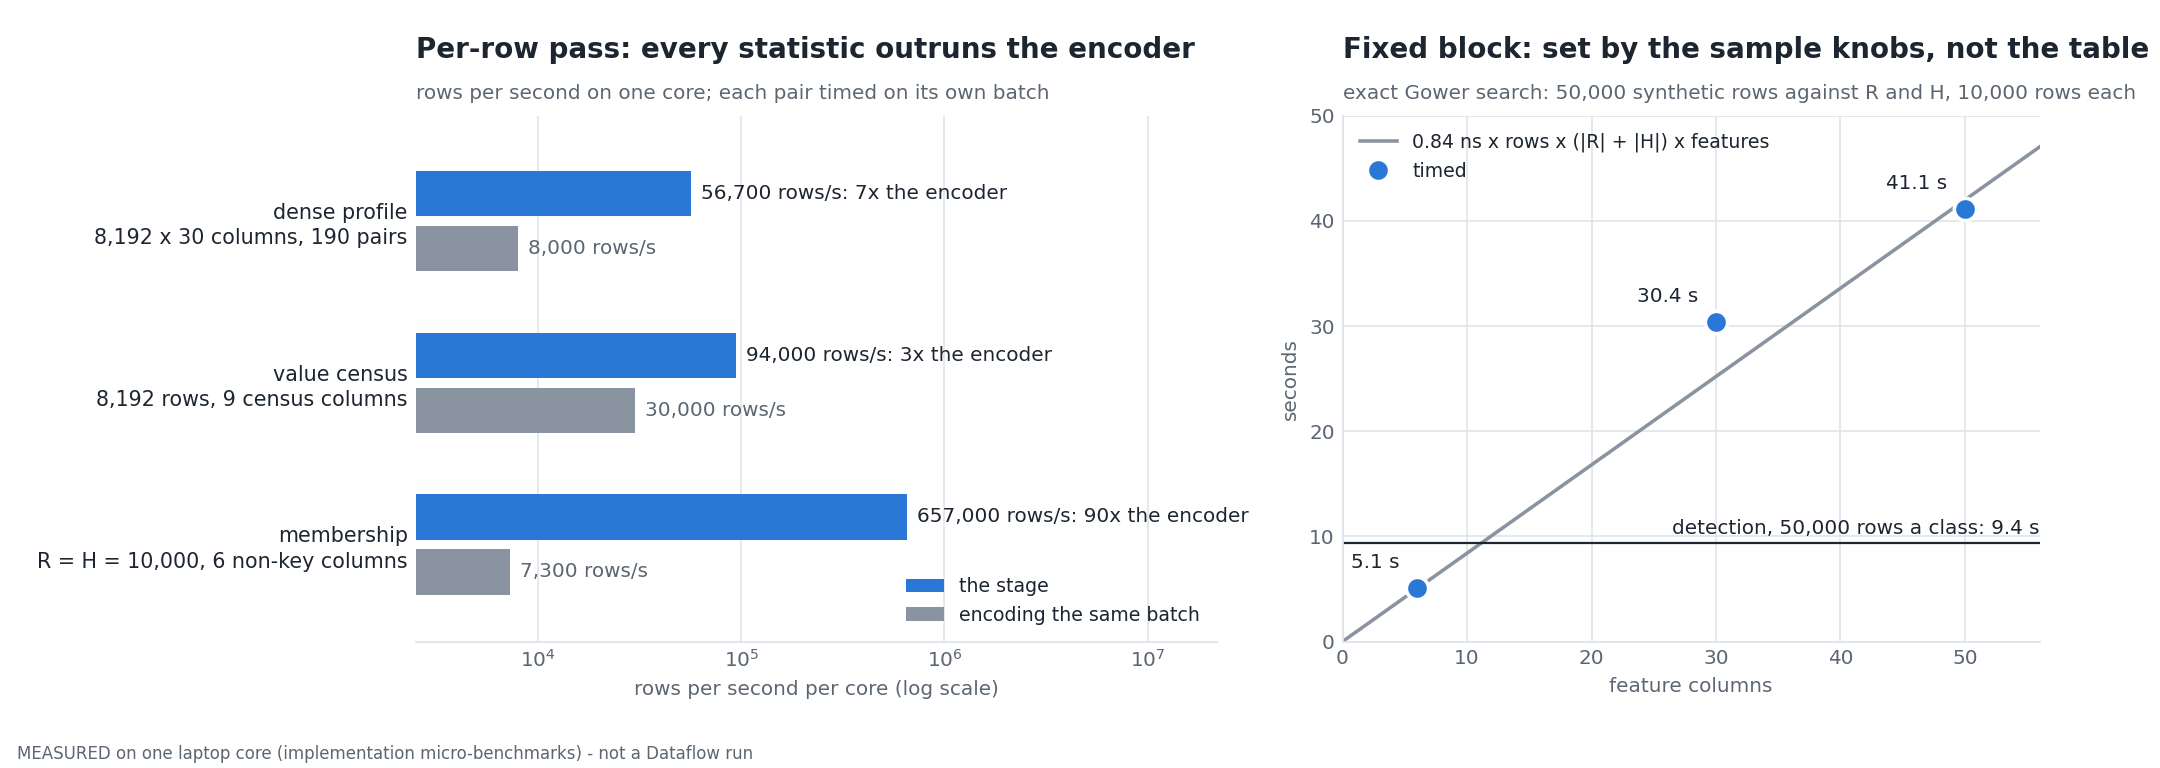
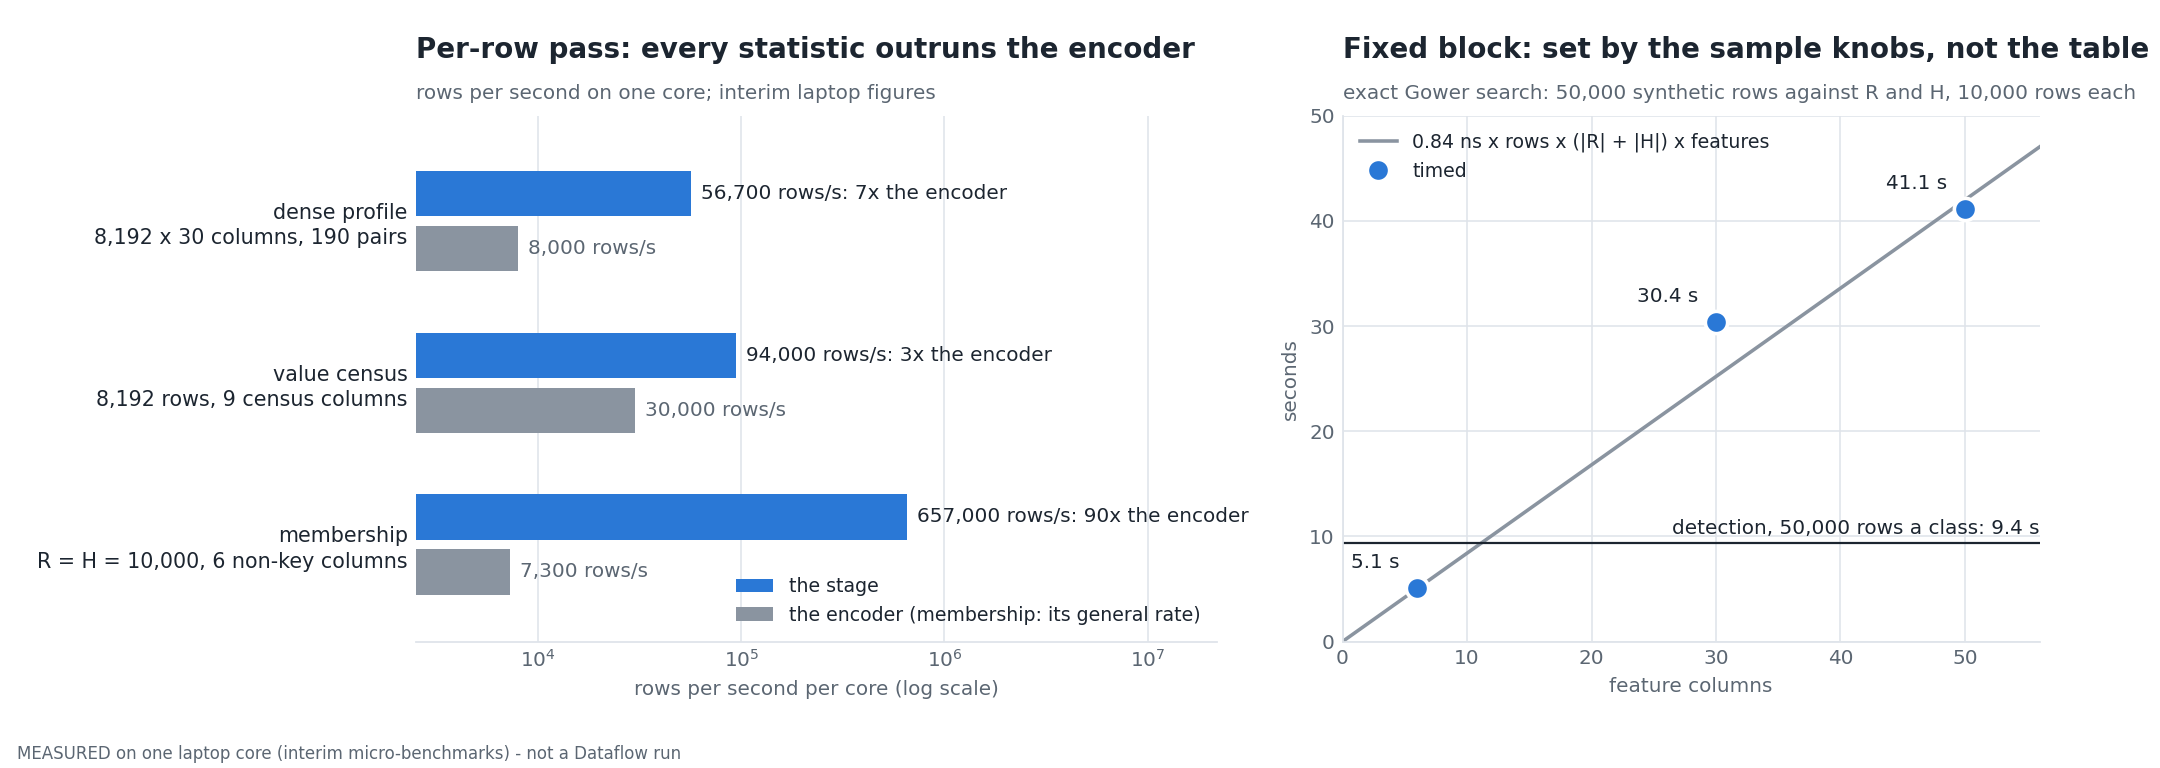
docs(evaluation): Task 30 review round 1 — scope statuses as built, interim CPU figure, catalogue check runs in CI (R105)

Changed region(s): [[0.3412, 0.75, 0.5583, 0.8125], [0.1241, 0.9688, 0.3412, 1.0], [0.3412, 0.0938, 0.4963, 0.1562]]

diff --git a/scripts/doc/make_eval_figures.py b/scripts/doc/make_eval_figures.py
@@ -233,25 +233,30 @@ RULE_ROWS, RULE_GRID, RULE_K = 2_000, 1_001, 10
 RULE_SHOWN = 28  # records drawn at each tail
 
 # --- MEASURED (typed once; laptop micro-benchmarks, not a Dataflow run) ----
-# Reported by the implementation tasks while each transform was built
+# INTERIM: laptop micro-benchmarks recorded while the package was built
 # (2026-09/10), on one Intel i5-6267U core (2.9 GHz) with single-threaded
-# numpy. They size the design; they are not evidence of a cloud run, and the
-# raw timings were not kept as a committed evidence bundle. A floor on the
-# dense pass is pinned by
-# packages/sdfb-evaluation/tests/beam/test_dense.py::test_throughput_8192_by_30_batch.
+# numpy. They size the design; they are not a committed evidence bundle and
+# not a cloud run, and the first Dataflow run is to replace them. A reader
+# can reproduce the dense-pass row with
+#   pytest packages/sdfb-evaluation/tests/beam/test_dense.py::test_throughput_8192_by_30_batch -s
+# (the other rows have no committed command).
 MEASURED_STAGES = (
-    # stage, rows/s per core, rows/s of ENCODING the same batch, the batch
+    # stage, rows/s per core, the encoder's rows/s (dense profile and census:
+    # same batch; membership: the encoder's general rate from another task's
+    # notes), the batch
     ("dense profile", 56_700, 8_000, "8,192 x 30 columns, 190 pairs"),
     ("value census", 94_000, 30_000, "8,192 rows, 9 census columns"),
     ("membership", 657_000, 7_300, "R = H = 10,000, 6 non-key columns"),
 )
 # Exact Gower nearest neighbours of 50,000 synthetic rows against R and H
 # (10,000 rows each): (feature columns, seconds). d = 6 and 30 were timed on
-# 4 busy cores, d = 50 single-threaded.
+# 4 cores at a load average of 6-10, d = 50 single-threaded.
 MEASURED_NN = ((6, 5.1), (30, 30.4), (50, 41.1))
 MEASURED_NN_QUERY, MEASURED_NN_REFERENCE = 50_000, 20_000
 MEASURED_NN_NS_PER_OP = 0.84  # ns per (query, reference, feature), d = 50
-MEASURED_DETECTION_SECONDS = 9.4  # 50,000 rows a class, 6 features, clean
+# 50,000 rows a class, 6 features, clean table with early stopping, timed at
+# the same load average of 6-10.
+MEASURED_DETECTION_SECONDS = 9.4
 
 
 # --------------------------------------------------------------------------
@@ -361,7 +366,7 @@ def _row_labels(ax, left, right=None):
 def _save(fig, name, *, kind="concept", seed=None, pad=1.6):
   """Stamp what kind of figure this is into the image, then write it."""
   if kind == "measured":
-    stamp = ("MEASURED on one laptop core (implementation micro-benchmarks)"
+    stamp = ("MEASURED on one laptop core (interim micro-benchmarks)"
              " - not a Dataflow run")
   elif seed is None:
     stamp = "CONCEPT figure: a schematic - no data, not a measured run"
@@ -1848,7 +1853,7 @@ def fig_cpu_budget():
         encode,
         height=0.28,
         color=CONTEXT,
-        label="encoding the same batch" if first else None)
+        label="the encoder (membership: its general rate)" if first else None)
     ax.text(
         rate * 1.12,
         y + 0.17,
@@ -1869,7 +1874,7 @@ def fig_cpu_budget():
   _style(ax, grid_axis="x")
   _row_labels(ax, [f"{stage}\n{batch}" for stage, _, _, batch in stages])
   _title(ax, "Per-row pass: every statistic outruns the encoder",
-         "rows per second on one core; each pair timed on its own batch")
+         "rows per second on one core; interim laptop figures")
   ax.set_xlabel("rows per second per core (log scale)", color=MUTED, fontsize=9)
   _legend(ax, loc="lower right")
 

diff --git a/docs/designs/2026-07-07-evaluation-framework-design.md b/docs/designs/2026-07-07-evaluation-framework-design.md
@@ -169,7 +169,7 @@ flowchart TB
   subgraph EVAL["packages/sdfb-evaluation: own lock, own venv"]
     CTX["⚙ context<br/>launch, scope, plan"]:::cpu
     BEAM["🔀 beam<br/>transforms, pipeline"]:::beam
-    STATS["⚙ stats, sampling<br/>pure numpy"]:::cpu
+    STATS["⚙ stats, sampling<br/>numpy, scipy"]:::cpu
     SCORE["⚙ scoring<br/>catalogue rules"]:::cpu
     CAT["📄 catalogue<br/>metrics.yaml"]:::store
     SCH["📄 schemas<br/>4 tables, 2 views"]:::store
@@ -190,7 +190,7 @@ flowchart TB
 | Module | What it owns |
 | --- | --- |
 | `context/` | Everything decided before a row is read: the launch (`launch`, `jobs`, `runs`, `gcp`), the relationship model mirror (`relationships`), the scope and the source pin (`scope`), the reference panel (`reference`), the plan and its budgets (`plan`, `budget`), planning from in-memory rows (`offline`), and the one wrapper every BigQuery call goes through (`bq`) |
-| `stats/`, `sampling/` | Pure numpy and scipy statistics and the bottom-k sampler. No Beam, no BigQuery |
+| `stats/`, `sampling/` | numpy and scipy statistics (the detection test also uses scikit-learn) and the bottom-k sampler. No Beam, no BigQuery |
 | `beam/` | The encoder, five transforms (`dense`, `census`, `membership`, `privacy`, `relational`), sources and sinks (`io`), the label key (`label_key`), assembly and the composed pipeline |
 | `scoring/` | Status, score and roll-ups, executed from the catalogue |
 | `catalogue/`, `schemas/` | The two contracts: every metric, and the four tables with their two views |
@@ -245,7 +245,7 @@ flowchart TD
 
 | Source | Answers | Lost when |
 | --- | --- | --- |
-| 1. Job labels in [`INFORMATION_SCHEMA.JOBS`][bq-jobs] | Which tables the job committed rows to, when, and how many. Beam labels every load and copy job it submits with the Dataflow job id | The evaluator lacks `roles/bigquery.resourceViewer` on the project |
+| 1. Job labels in [`INFORMATION_SCHEMA.JOBS`][bq-jobs] | Which tables the job committed rows to, when, and how many. Per Beam's source, every load and copy job it submits is labelled with the Dataflow job id (never observed by this package) | The evaluator lacks `roles/bigquery.resourceViewer` on the project |
 | 2. The launcher's `launch_config` log entry | Every launch argument, the table order, the run ids | Log retention has passed, or the launch predates the entry |
 | 3. The Dataflow job's display parameters | The launch arguments | The job is past Dataflow's retention |
 | 4. `validation_runs` | Run ids (`<base>-NN-<table>`), reference digests, valid row counts | The table is not read |
@@ -351,6 +351,21 @@ another. That start snapshot is the one table planning creates. `sdfb-eval
 plan --no_planning_snapshots` plans without it and reports such tables as
 unplanned.
 
+**`--no_planning_snapshots`: one panel for each side of the flag.**
+
+```mermaid
+flowchart LR
+  classDef cpu   fill:#1baf7a,color:#fff,stroke:#127a55
+  classDef store fill:#2a78d6,color:#fff,stroke:#1d5599
+  classDef data  fill:#6b7280,color:#fff,stroke:#4b5563
+  subgraph OFF["flag absent"]
+    A1["⚙ plan an<br/>as_of_diff table"]:::cpu --> A2[("🗄 zero-byte start<br/>snapshot, 24 h")]:::store --> A3["⚙ scope planned,<br/>the table is evaluated"]:::cpu
+  end
+  subgraph ON["flag set"]
+    B1["⚙ plan an<br/>as_of_diff table"]:::cpu --> B2["⚪ DDL refused,<br/>nothing created"]:::data --> B3["⚪ scope unknown,<br/>reported UNPLANNED"]:::data
+  end
+```
+
 Every other writer is placed against the job's window, and the scope ends
 in one of six statuses:
 
@@ -366,18 +381,37 @@ flowchart LR
 
 | `scope_status` | When | What is read |
 | --- | --- | --- |
-| `ok` | The rows read equal the rows the job committed | The scope |
+| `ok` | The rows read agree with the rows the job committed: equal below 1,000 rows, within 0.5 % above (at 10 M rows, 50,000 rows off is still `ok`) | The scope |
 | `count_mismatch` | The rows read differ from the job's committed output rows, or from the sum of `validation_runs.valid_count` | The scope; the run is `PARTIAL` |
 | `contaminated` | Another writer's commit may fall inside the window | Nothing, unless `--allow_contaminated` |
 | `expired` | The window is older than the table's [time-travel][bq-time-travel] window less a one-hour margin | Nothing |
 | `empty` | The job wrote nothing | Nothing |
-| `unknown` | The window cannot be placed (it ends after now, for example), or the table's dry run failed, or its start snapshot was not allowed | Nothing |
+| `unknown`, cannot be placed | The window cannot be placed (it ends after now, for example), or the table's dry run failed, or its start snapshot was not allowed | Nothing |
+| `unknown`, read and flagged | An overwrite launch with no labelled write found (`JOBS` denied, or past retention), or a scope with no count to check against | The whole current table, with a warning; the run ends `SUCCEEDED_WITH_WARNINGS` |
 
-The current table is never read in place of a scope that cannot be
-recovered. The row count is always checked; a writer with no BigQuery job
-of its own, such as a streaming insert, is invisible to the JOBS view, and
-the count check is the only guard there. *Code:* `context/scope.py`
+A scope that cannot be placed reads nothing. The one case where the current
+table is read without a recovered scope is the second `unknown` row: an
+overwrite launch that lost source 1 (below) reads the whole table, because
+writes after the job cannot be ruled out, and says so. The row count is
+checked whenever a count is known, within the tolerance above; a writer
+with no BigQuery job of its own, such as a streaming insert, is invisible
+to the JOBS view, and the count check is the only guard there. *Code:* `context/scope.py`
 (`resolve_scope`, `ScopePlan.verify`), `context/jobs.py::foreign_writes`.
+
+**`--allow_contaminated`: one panel for each side of the flag.**
+
+```mermaid
+flowchart LR
+  classDef cpu   fill:#1baf7a,color:#fff,stroke:#127a55
+  classDef store fill:#2a78d6,color:#fff,stroke:#1d5599
+  classDef data  fill:#6b7280,color:#fff,stroke:#4b5563
+  subgraph OFF["flag absent"]
+    A1["⚪ another writer<br/>inside the window"]:::data --> A2["⚪ status contaminated"]:::data --> A3["⚪ nothing read,<br/>table skipped"]:::data
+  end
+  subgraph ON["flag set"]
+    B1["⚪ another writer<br/>inside the window"]:::data --> B2["⚪ status contaminated,<br/>warning"]:::data --> B3[("🗄 the window's rows<br/>read, with the other<br/>writer's")]:::store --> B4["⚙ evaluated; run ends<br/>SUCCEEDED_WITH_WARNINGS"]:::cpu
+  end
+```
 
 Unverified until the first GCP run: whether `APPENDS` returns exactly the
 job's rows on a load-only window, whether it also returns copy-job rows,
@@ -442,7 +476,8 @@ row's JSON text falls under a rate, so the same rows are kept for the same
 salt and identical rows are kept together. A sample cannot support a
 verdict that needs every row of a side. In sampled mode the full-source
 match rates, the key duplicate rates, internal duplicates, and the orphan
-rates and fan-out metrics of an edge whose child side was sampled are
+rates and fan-out metrics of an edge whose child side or parent side was
+sampled are
 `not_evaluated` with the reason "sampled mode cannot measure …; run exact
 mode" and the observed lower bound in `detail` (R72). An integrity pass never comes from a sample. Rates and lifts that
 compare the panel with the rows read stay evaluated, with `method = sample`
@@ -552,7 +587,11 @@ difference means nothing; far above it, it means something at every size.
 `sqrt(ln(2/α)/(2n))` of the truth with probability 1 − α
 ([Dvoretzky, Kiefer & Wolfowitz 1956][dkw1956], with the tight constant of
 [Massart 1990][massart1990]). *Code:* `stats/noise.py::ks_critical`,
-`dkw_epsilon`; `scoring.status_for`, step 9.
+`dkw_epsilon`; `scoring.status_for`, step 9. The DKW band is the one
+drawn, for the reference sample alone, in
+[the reference-sample scaling design](2026-07-24-reference-sample-scaling.md)
+(`assets/sampling-error-dkw.png`); this figure redraws it beside the
+two-sample KS floor.
 
 Each noise method of the catalogue is one such estimate:
 
@@ -780,7 +819,12 @@ back in the synthetic table, and the same for the holdout. In a dense
 domain both counts are large and equal: many exact matches, no lift. Copy
 a hundred reference records on top and the first count runs away from the
 second. With a handful of events the estimate swings, so the verdict
-reads the cautious end of the interval. *Formally:* with exclusive sets
+reads the cautious end of the interval. The third row is the limit of
+this: 300 copied records on top of about 480 chance hits lift the ratio
+to about 1.7, and its lower bound, about 1.5, stays under the warn line of
+2, so that table passes. The lifts see a small copy fraction only where
+chance hits are few; in a dense domain a few hundred copies hide among the
+chance hits. *Formally:* with exclusive sets
 `R∖H` and `H∖R` and m_S the distinct exclusive records of S reproduced,
 `lift = (m_R/|R∖H|) / (m_H/|H∖R|)`; conditional on `m_R + m_H`, m_R is
 binomial under equal rates ([Przyborowski & Wilenski 1940][przyborowski1940]),
@@ -864,7 +908,7 @@ coin, so 1 % of copies moves the share from 0.500 to 0.505.
 *Formally:* `share = mean(1[d_R < d_H] + ½·1[d_R = d_H])` on equal-size R
 and H ([Platzer & Reutterer 2021][platzer2021]); with a fraction f of exact
 copies the expectation is `½ + f/2`. Status reads the lower confidence
-bound. *Code:* `stats/privacy.py`, `beam/privacy.py::PrivacyEmitFn`.
+bound. *Code:* `stats/privacy.py`, `beam/privacy.py::_PrivacyEmitFn`.
 
 Pitfalls:
 
@@ -909,7 +953,7 @@ the interval shows how much. *Formally:* the classifier two-sample test of
 [Lopez-Paz & Oquab 2017][lopezpaz2017]; the metric is the out-of-fold ROC
 AUC, with the interval of [DeLong, DeLong & Clarke-Pearson 1988][delong1988]
 computed from midranks ([Sun & Xu 2014][sunxu2014]). *Code:*
-`stats/detection.py::c2st_auc`, `featurize`; `beam/privacy.py::DetectionFn`.
+`stats/detection.py::c2st_auc`, `featurize`; `beam/privacy.py::_DetectionFn`.
 
 Keys are never features: they differ between the tables by construction.
 An AUC under 0.5 is noise, not "more real than real", and a flexible
@@ -1048,7 +1092,10 @@ Two channels are accepted and documented: the adherent count of
 `field.range_adherence` and of `relationship.cardinality_adherence` can pin
 a source extreme when values are dense integers. Row flags carry keys only,
 never an attribute value: the synthetic row's own key, and a keyed hash of
-the matched source record's key (`source_key` is always NULL).
+the matched source record's key (`source_key` is always NULL). The
+synthetic key is the synthetic table's own key in clear, not hashed, so
+for a whole-row copy (keys included) it is the copied source row's key in
+clear. That is a third disclosure channel, documented in the code.
 
 ### 4.10 The catalogue
 
@@ -1287,8 +1334,9 @@ Three budgets, each with a place where it is enforced.
 **BigQuery bytes: `--max_bytes_billed`.** The planner dry-runs the planning
 queries, the panel query, the prepare DDL and, in sampled mode, the
 worst-case sample reads, and refuses the run above the cap before anything
-is billed. Columnar billing reads each column once, so splitting a wide
-table's planning into several statements costs what one would. The panel
+is billed. Per BigQuery's documented billing model, columnar billing reads each
+column once, so splitting a wide table's planning into several statements
+is expected to cost what one would; no dry run has reached BigQuery. The panel
 query ranks the whole source once. An `as_of_diff` scope reads the table
 and its start snapshot once each, about twice the table's bytes. The
 registry stores the total in `bq_bytes_processed`.
@@ -1327,25 +1375,31 @@ Beam 2.74 keeps no side-input cache by default, so every bundle would
 re-read them. The evaluator sets `max_cache_memory_usage_mb` to the sum of
 the side inputs a worker may hold at once, with 25 % headroom and at least
 512 MB. The Gower search charges 64 MB per chunk. On Dataflow the
-experiment `upload_graph` is always set, because a graph this wide exceeds
-the job-creation request limit.
+experiment `upload_graph` is always set, because a graph this wide is
+expected to exceed the job-creation request limit. No job has been
+submitted, so the limit has not been hit.
 
 **CPU: the per-row pass and the fixed block.**
 
-**Claim:** on one laptop core every statistic outran the encoder on the
-same batch, and the nearest-neighbour block is set by the sample knobs, not
+**Claim:** on one laptop core every statistic outran the encoder, and the nearest-neighbour block is set by the sample knobs, not
 by the table.
 
 ![Laptop micro-benchmarks: per-row stages and the neighbour search](assets/eval-cpu-budget.png)
 
-*MEASURED figure: laptop micro-benchmarks reported while each transform was
-built, one Intel i5-6267U core. Not a Dataflow run, and the raw timings
-were not kept as a committed evidence bundle.* Left: each stage against
-the encoding of the very batch it was timed on (the three batches differ,
-so compare within a pair, not across). Right: the exact Gower search of
-the default `--privacy_sample_rows` against R and H, with a per-operation
-model fitted at 50 feature columns; the point at 30 columns was timed on a
-busy machine. *Code:* `beam/encode.py`, `beam/dense.py`, `beam/census.py`,
+*MEASURED figure, interim: laptop micro-benchmarks recorded while each
+transform was built, one Intel i5-6267U core. Not a Dataflow run and not a
+committed evidence bundle; the first Dataflow run is to replace it.* Left:
+each stage against the encoder's rate (the dense profile and the census
+were timed with the encoder on the same batch; for membership, 7,300 rows/s
+is the encoder's general rate from another task's notes, not that batch, so
+read the third pair as an order of magnitude). Right: the exact Gower
+search of the default `--privacy_sample_rows` against R and H, with a
+per-operation model fitted at 50 feature columns; the points at 6 and 30
+columns and the 9.4 s detection figure were timed on 4 cores at a load
+average of 6 to 10, the 50-column point single-threaded. A reader can
+reproduce the dense-pass row with `pytest
+packages/sdfb-evaluation/tests/beam/test_dense.py::test_throughput_8192_by_30_batch -s`.
+*Code:* `beam/encode.py`, `beam/dense.py`, `beam/census.py`,
 `beam/membership.py`, `stats/privacy.py::gower_knn`. A floor on the dense
 pass is pinned by `tests/beam/test_dense.py::test_throughput_8192_by_30_batch`.
 
@@ -1400,7 +1454,9 @@ rows. Two details make that true:
   gives the same status and score. Integrity metrics and count-derived
   rates keep no absolute floor: one orphan in thirty billion rows must
   persist as more than 0 beside its FAIL.
-- **Only what moments make is rounded in profiles.** Histogram edges,
+- **Only what moments make is rounded in profiles.** The one exception
+  is the `roc_curve` payload, whose restated AUC and interval are rounded
+  like the `table.detection_auc` row. Histogram edges,
   quantiles and counts persist as computed, so edges stay strictly
   increasing and still hash to the row's `edges_digest`.
 
@@ -1726,7 +1782,7 @@ flowchart TB
   subgraph YES["flag set"]
     Y1[("📄 thresholds file")]:::store --> Y2{"valid?"}:::cpu
     Y2 -- "no" --> Y3["⚪ exit 2<br/>nothing started"]:::data
-    Y2 -- "yes" --> Y4["🔀 named metrics graded<br/>and stored against the file"]:::beam --> Y5[("🗄 registry: uri and<br/>digest of the overrides")]:::store
+    Y2 -- "yes" --> Y4["🔀 named metrics graded<br/>and stored against the file"]:::beam --> Y5[("🗄 registry: uri (base name<br/>if local) and digest")]:::store
   end
 ```
 
@@ -1817,8 +1873,8 @@ What they are written to do:
 - The template's parameters are exactly the public flags of `sdfb-eval
   run`, minus runner, project and region, which the template launcher
   supplies (R97). A test compares the metadata with the parser itself. An
-  unset parameter reaches the command line as an empty string, which
-  every flag reads as "not given".
+  unset parameter is expected to reach the command line as an empty
+  string, which every flag reads as "not given".
 - The image carries its own dispatch entrypoint: Dataflow appends the
   worker's boot flags to the image's entrypoint and does not override it
   ([ADR 0009](../adr/0009-single-flex-template-image.md)), so one image
@@ -1830,7 +1886,8 @@ What they are written to do:
   never applies `--fail_on`.
 
 Unverified until a build and a launch: the entrypoint dispatch, the baked
-worker image, and the launcher supplying project and region.
+worker image, the launcher supplying project and region, and an unset
+parameter reaching the command line as an empty string.
 
 ### 8.3 Composer
 
@@ -1860,7 +1917,9 @@ flowchart LR
 
 - **Parameters** map one to one onto template parameters, each from a DAG
   parameter or a constant. The DAG never passes runner, project, region,
-  the worker image, experiments or `fail_on` (R99). `trigger` is
+  the worker image, experiments or `fail_on` as template parameters (R99).
+  Its launch environment does pass `additionalExperiments`
+  (`use_runner_v2`, `enable_secure_boot` and the network-tag experiments). `trigger` is
   `composer` for a manual run and `chained` when the generation DAG
   starts it.
 - **Chaining is opt-in.** The generation DAG has a parameter
@@ -1941,7 +2000,7 @@ file (D2).
 **Planted defects.** The acceptance test runs the composed pipeline on an
 invented three-table launch (`users`, `orders`, `order_items`) twice: once
 against a faithful twin drawn from the same generator, which must fail
-nothing, and once against a twin with seven defects:
+no fidelity, privacy or integrity check, and once against a twin with seven defects:
 
 | # | Planted | Must fail |
 | --- | --- | --- |
@@ -2050,11 +2109,12 @@ is relieved by direct labels.
 | Count rule | `assets/eval-count-rule.png` | An edge is published only with 10 source records on each side | CONCEPT | 20 |
 | CPU budget | `assets/eval-cpu-budget.png` | Encoding bounds the per-row pass; the neighbour block is fixed by the sample knobs | MEASURED, laptop | — |
 
-`eval-cpu-budget` is the only figure with measured numbers. They are typed
-once, in the script's `MEASURED` block, with where they came from: one
-laptop core, timings reported while the transforms were built. They are
-not from a committed evidence bundle and should be replaced by a real
-run's numbers when one exists. Diagrams are inline mermaid, in the
+`eval-cpu-budget` is the only figure with measured numbers, and it is
+interim: laptop micro-benchmarks recorded while the package was built, not
+a committed evidence bundle, to be replaced by the first Dataflow run. The
+numbers are typed once, in the script's `MEASURED` block, with where they
+came from: one laptop core. One command reproduces the dense-pass row:
+`pytest packages/sdfb-evaluation/tests/beam/test_dense.py::test_throughput_8192_by_30_batch -s`. Diagrams are inline mermaid, in the
 repository's house classes: orange for Beam code, blue for stores, green
 for CPU work, gray for plain values.
 
